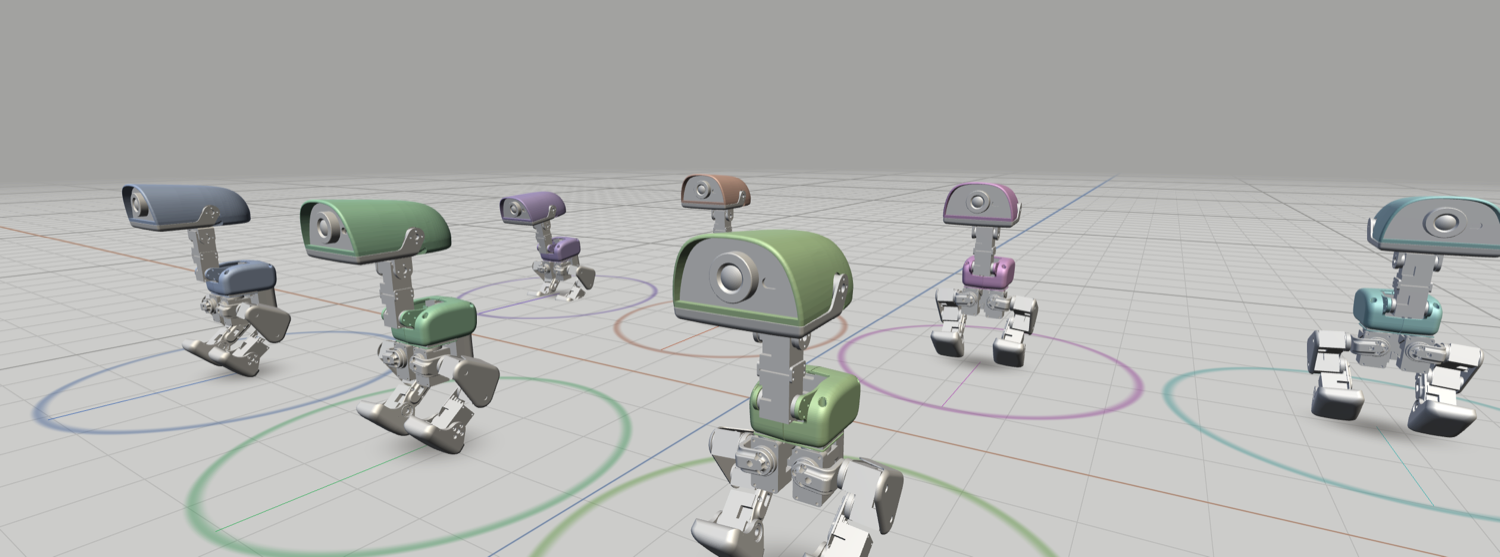
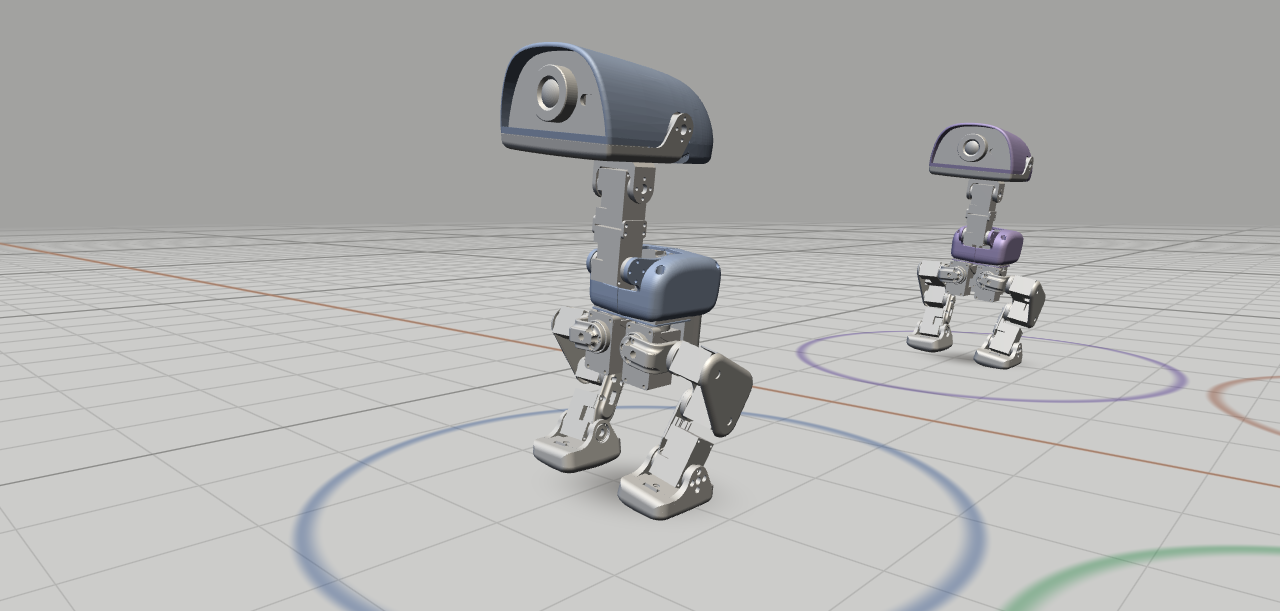
docs: retake the screenshots against the fixed renderer
All four predated the flat-feet fix, so every duck in them stood with its
soles pitched 46 degrees off the floor.

The three viewer shots are captured straight off the WebGL canvas with
toDataURL rather than screenshotted, so they are clean 1280x611 renders with
no page chrome or DOM label overlays. editor.png is a real window capture at
1500x1014, matching the previous size.

They also now show the current state of the project rather than an older one:
the real Pollen meshes with feet planted, the raised locomotion speeds
(vx 0.340 is visible in the timeline readout), and a clean validation panel.

diff --git a/README.md b/README.md
@@ -46,7 +46,7 @@ The stage viewer is a **kinematic preview**. It shows staging, spacing and silho
 
 The floor is measured: 1 m major lines, 10 cm minor divisions, tinted axes through the origin. A MicroDuck is 25 cm tall, so it stands about two and a half minor squares high.
 
-![Close view of the MicroDuck meshes: head shell, camera lens, bill and articulated legs](docs/images/viewer-closeup.png)
+![Close view of the MicroDuck meshes: head shell, camera lens, servo linkages and articulated legs, feet flat on the floor](docs/images/viewer-closeup.png)
 
 ![Top-down view showing the eight-duck formation and start marks](docs/images/viewer-top.png)
 
